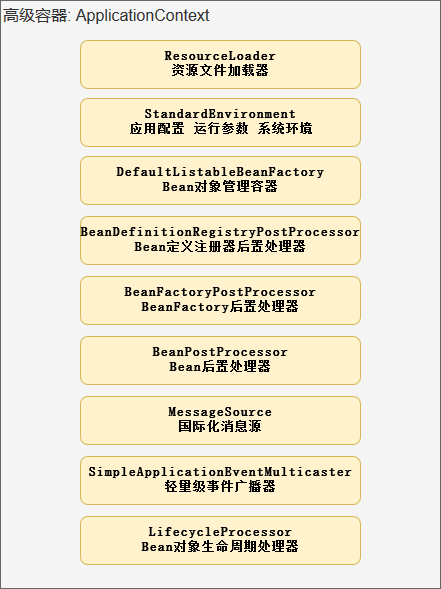
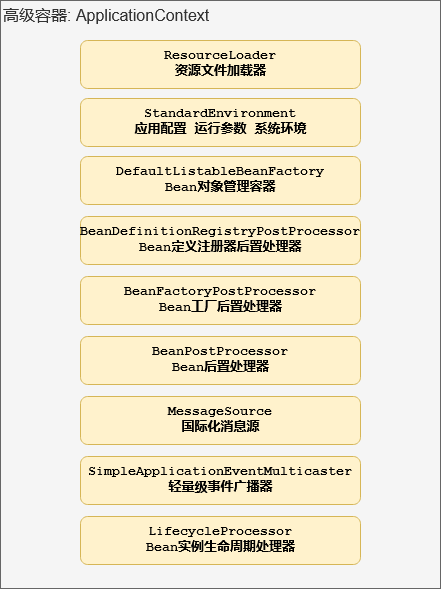
注解配置工具类注册Bean定义声明说明优化

diff --git a/spring-ioc/spring-ioc.md b/spring-ioc/spring-ioc.md
@@ -11,7 +11,7 @@
 
 ## 容器
 
-##### 一、 容器概览
+#### 一、 容器概览
 
 以一张图来看看, **Spring IOC**容器包含哪些东西  
 ![Spring 容器](images/spring-ioc.png)
@@ -26,26 +26,26 @@
 
 * `DefaultListableBeanFacotry` 管理`Bean`实例获取、创建、初始化、依赖注入和缓存单例`Bean`, 是真正意义上的`Bean`实例容器.
 
-* `BeanDefinitionRegistryPostProcessor` **`Bean`定义声明后置处理器**, 是容器对外输出如何发现、读取、解析、创建**`Bean`定义声明**、注册**`Bean`定义声明**
+* `BeanDefinitionRegistryPostProcessor` **`Bean`定义注册器后置处理器**, 是容器对外输出如何发现、读取、解析、创建**`Bean`定义**并注册**`Bean`定义声明**
 
-* `BeanFactoryPostProcessor` **`Bean`工厂后置处理器**, 是容器对外输出能够对**`Bean`工厂**执行增强、配置, 如编码方式向容器添加`Bean`实例, 替换**`Bean`定义声明**元数据中的字符串占位符为具体值  
+* `BeanFactoryPostProcessor` **`Bean`工厂后置处理器**, 是容器对外输出能够对**`Bean`工厂**执行增强、配置, 如编码方式向容器添加`Bean`实例, 替换**`Bean`定义声明**元数据中的字符串占位符为具体值
 
-* `BeanPostProcessor` **`Bean`实例后置处理器**, 是容器对外输出预测类型、确定构造函数、对实例前/后置处理、属性值设置、初始化前/后置处理等控制创建`Bean`实例一系列过程, 这是容器对外提供参与Bean实例创建最详细的生命周期
+* `BeanPostProcessor` **`Bean`后置处理器**, 是容器对外输出预测类型、确定构造函数、对实例前/后置处理、属性值设置、初始化前/后置处理等控制创建`Bean`实例一系列过程, 这是容器对外输出参与`Bean`实例创建最详细的生命周期能力
 
 * `MessageSource` 国际化消息组件, 容器默认的组件实例是`DelegatingMessageSource`
 
 * `ApplicationEventMulticaster` 轻量级事件广播器, 是容器提供的事件监听机制, 在容器初始化完成后会广播一个`ContextRefreshedEvent`事件, 我们可以监听这个事件. 适合一些其他需要容器初始化完成后才开始执行的动作, 如**Spring**自带的定时任务, 就是监听到这个事件后触发定时任务初始化工作
 
-* `LifecycleProcessor` 容器生命周期处理器, 是容器初始化完成后, 可以自动启动实现了`Lifecycle`接口的扩展组件, 如`rabbitmq`客户端组件就是应用了这个机制. 当容器初始化完成后, 容器引导`rabbitmq`启动, `rabbitmq`客户端组件内部开始执行`rabbitmq`客户端连接到`rabbitmq`服务器, 创建监听器监听队列消息等一系列初始化工作. 
+* `LifecycleProcessor` `Bean`实例生命周期处理器, 是容器初始化完成, 所有`Bean`实例一切就绪后, 容器对外输出实现`Lifecycle`接口的扩展组件`Bean`执行自动启动, 如`rabbitmq`客户端组件就是应用了这个机制. 当容器初始化完成后, 容器引导`rabbitmq`启动, `rabbitmq`客户端组件内部开始执行`rabbitmq`客户端连接到`rabbitmq`服务器, 创建监听器监听队列消息等一系列初始化工作. 
 
 
 #### 二、 如何创建一个新容器
 
-**Spring**容器是设计为父子层级容器, 子容器可以继承公共父容器的**Bean**实例, 这对于某些场景需要多个不同隔离的子容器提供了支持. 比如在**Spring MVC**中, 展现层`Bean`位于一个子容器中, 而业务层和持久层的`Bean`位于父容器中. 这样, 展现层`Bean`就可以引用业务层和持久层的Bean, 而业务层和持久层的`Bean`则看不到展现层的`Bean`.
-创建**Spring**容器可以以XML文件声明式和注解编码两种方式, 或者混用两种方式.
-* XML声明式: `ClassPathXmlApplicationContext` `FileSystemXmlApplicationContext`
+**Spring**容器被设计为父子层级容器, 子容器可以继承公共父容器的**Bean**实例, 这对于某些场景需要多个不同隔离的子容器提供了支持. 比如在**Spring MVC**中, 展现层`Bean`位于一个子容器中, 而业务层和持久层的`Bean`位于父容器中. 这样, 展现层`Bean`就可以引用业务层和持久层的`Bean`, 而业务层和持久层的`Bean`则看不到展现层的`Bean`.
+创建**Spring**容器可以以XML文件声明式和注解编码两种方式, 或者混用两种方式. 针对不同方式, **Spring**提供不同的支持类:
+* XML声明方式: `ClassPathXmlApplicationContext` `FileSystemXmlApplicationContext`
 * 注解编码方式: `AnnotationConfigApplicationContext`
-这里提到的两种方式都是框架提供的最基本的两个创建容器的方式, 针对**Spring MVC**、**Spring Boot**都会有自己的实现类. 本文统一使用`AnnotationConfigApplicationContext`这种注解方式进行讲解.
+这里提到的两种方式的支持类是框架内部基本的两个创建容器的类, 针对**Spring MVC**、**Spring Boot**都会有自己的实现类. 本文统一使用`AnnotationConfigApplicationContext`这种注解方式进行讲解.
 
 首先介绍一下本文用到的maven项目结构, 如下
 >```
@@ -75,15 +75,13 @@
 1. 注解类为参数的构造器  
 * 注解类
 ```java
-
-//配置类主入口
+//该注解很重要
 @Configuration
 public class ContextConfig {
-  
+  //配置类主入口
 }
 ```
-`ContextConfig`注解类很简单, 里面什么也没有, 类应该是被`@Configuration`、`@Component`、`@Inject`注解所标记, 如果需要通过方法声明`Bean`定义, 
-应该在注解`@Configuration`的类里面写一个方法, 此方法必须存在返回值, 且返回类型是`Bean`的类型, 然后在方法上面添加注解`@Bean`.
+`ContextConfig`注解类很简单, 里面什么也没有, 类应该是被`@Configuration`、`@Component`、`@Inject`注解所标记. 如果需要在注解类声明`Bean`定义, 应该在`@Configuration`注解的类里面写一个方法, 此方法必须存在返回值, 且返回类型是`Bean`的类型, 并在方法上添加`@Bean`注解.
 
 * 注解类为参的构造器
 ```java
@@ -104,7 +102,7 @@ public class SpringContainer {
   }
 }
 ```
-包名为参创建容器, 在容器初始化过程中, 会扫描包名及子包名下所有注解`@Configuration`的类并注册为`Bean`定义, 且解读类中注解`@Bean`的方法并注册为`Bean`定义
+以包名为参创建容器, 在容器初始化过程中, 会扫描包名及子包名下所有`@Configuration`注解的类并注册为`Bean`定义, 且会解析注解类中`@Bean`注解的方法并注册为`Bean`定义
 
 3. 无参的构造器  
 ```java
@@ -118,32 +116,30 @@ public class SpringContainer {
   }
 }
 ```
-无参构造器方式创建一个完整的容器, 需要的代码也不多, 调用`register`方法注册一个注解类或者调用`scan`方法指定要扫描的包名, 然后调用`refresh`方法刷新容器, 
-刷新方法是必须的, 容器初始化大量相关的工作需要调用该方法.
+以无参构造器方式创建一个完整的容器, 需要的代码也不多, 调用`register`方法注册一个注解类或者调用`scan`方法指定要扫描的包名, 然后调用`refresh`方法刷新容器, 调用刷新方法是**必须的**, 容器初始化大量相关的工作需要调用该方法.
 
 
 #### 三、 容器启动流程
 
-通过前面的示例, 创建一个容器很简单, 仅两三行代码就完成了. 我们输入一个配置类或者包名, 最后容器输出事先定义的`Bean`实例(仅限单例会预先创建, 多例要在运行时动态创建), 容器里面到底发生了什么, 我们不知晓,
-一般来说也不需要关心, 容器自身保证输出的`Bean`实例及依赖关系的正确性. 让我们窥视下这个黑盒子做了哪些工作:  
+通过前面的示例, 创建一个容器很简单, 仅两三行代码就完成了. 我们输入一个配置类或者包名, 最后容器输出一系列事先定义的`Bean`实例(仅限单例会预先创建, 多例要在运行时动态创建), 容器里面到底发生了什么, 我们不知晓, 一般来说也不需要关心, 容器自身保证输出的`Bean`实例及依赖关系的正确性. 让我们窥视下这个黑盒子做了哪些工作:  
 ![Spring 容器启动流程](images/spring-ioc-sequence.png)
 
-1. 容器引擎实例由调用`AnnotationConfigApplicationContext`的构造函数创建
+1. 容器实例引擎由调用`AnnotationConfigApplicationContext`的构造函数创建
 2. 容器内部创建`DefaultListableBeanFactory` 默认的`Bean`工厂实例, `Bean`工厂实例管理着`Bean`实例对象的获取、类型加载、最优构造器/工厂方法选择、创建实例、属性依赖绑定、后置处理器调用(如返回AOP生成的代理对象, 动态修改属性依赖绑定)、初始化、初始化回调(如通知`aware`接口实现)并注册缓存单例`Bean`
-3. `Bean`定义读析器实例由容器调用`AnnotatedBeanDefinitionReader`的构造函数创建, 并接受`BeanDefinitionRegistry`类型的实例作为参数, 容器自身实现了该接口, 所以这里传入的是容器实例
-4. `Bean`定义读析器尝试从容器获取`Environment`环境变量实例, 如果容器不能获取环境变量, 则创建新的`StandardEnvironment`环境变量实例
-5. `Bean`定义读析器内部创建`ConditionEvaluator`状态求值器实例, 该实例用于计算读析器读取的`Bean`定义是否可被注册为`Bean`定义声明, 这项技术在**Spring Boot**中大量使用, 我们按需添加**jar**包依赖, **Spring Boot**自动发现并配置容器功能的原型就是引用这项技术, **Spring Boot**扩展并增强了这项技术的应用
-6. 设置`Bean`工厂的注解排序器为`AnnotationAwareOrderComparator`实例, 在同类`Bean`中, 排序器根据注解`@Order`或者实现`Ordered`接口唯一方法返回的整型值, 决定其排序, 整型值越小排序越靠前, 优先级越高. 如容器对多个`BeanPostProcessor`实现类执行后置处理时, 根据其排序进行顺序后置处理
-7. 设置`Bean`工厂的自动绑定备选项选择器为`ContextAnnotationAutowireCandidateResolver`实例, 对于一个`Bean`有资格被绑定到依赖属性, 我们称这样的`Bean`为"种子`Bean`", 而最终能够被选中并绑定到属性依赖的`Bean`称之为"资格`Bean`", 在实际场景中, 我们可能会对某些`Bean`进行代理增强, 工厂在查找属性依赖注入的时候希望注入的是经过增强后的代理实例而不是原始`Bean`实例. 容器的做法就是通过一个标志位来区分是否可作为属性依赖注入的"种子`Bean`"
+3. `Bean`定义读析器实例由容器调用`AnnotatedBeanDefinitionReader`的构造函数创建, 并接受`BeanDefinitionRegistry`类型的`Bean`定义注册器实例作为参数, 容器自身实现了该接口, 所以这里传入的是容器实例
+4. `Bean`定义读析器尝试从容器获取`Environment`环境变量实例, 如果容器不能获取到环境变量实例, 则会创建新的`StandardEnvironment`环境变量实例
+5. `Bean`定义读析器内部创建`ConditionEvaluator`状态求值器实例, 该实例用于计算读析器判断一个`Bean`定义声明是否可被注册, 这项技术在**Spring Boot**中大量使用, 我们按需添加**jar**包依赖, **Spring Boot**自动发现并配置容器功能的原型就是引用这项技术, **Spring Boot**扩展并增强了这项技术的应用
+6. 设置`Bean`工厂的注解排序器为`AnnotationAwareOrderComparator`实例, 在同类`Bean`中, 排序器根据注解`@Order`属性值或者实现`Ordered`接口唯一方法返回值, 决定其排序位置, 整型值越小排序越靠前, 优先级越高. 如容器对多个`BeanPostProcessor`实现类执行后置处理时, 根据其排序进行顺序后置处理
+7. 设置`Bean`工厂的自动绑定备选项选择器为`ContextAnnotationAutowireCandidateResolver`实例, 对于一个有资格被绑定到依赖属性的`Bean`, 称这样的`Bean`为"种子`Bean`", 而最终能够被选中并绑定到属性依赖的`Bean`称之为"资格`Bean`", 在实际场景中, 我们可能会对某些`Bean`进行代理增强, `Bean`工厂在查找属性依赖注入的时候希望注入的是经过增强后的代理实例而不是原始`Bean`实例. 容器的做法就是通过一个标志位来区分是否可作为属性依赖注入的"种子`Bean`"
 8. 注册配置类后置处理器`ConfigurationClassPostProcessor`的`Bean`定义, 因为是`Bean`定义声明, 只有在容器刷新时, 才会创建配置类后置处理器实例对象. 由于该`Bean`定义声明实现了`BeanDefinitionRegistryPostProcessor`和`PriorityOrdered`接口, 因此在所有`Bean`定义声明中最优先被创建实例对象, 在容器启动中, 该`Bean`实例对象解析`@Configuration`注解的`class`文件(称为: 配置类). 配置类是编码方式声明其他`Bean`定义的入口
-9. 包`Bean`定义扫描器实例由容器调用`ClassPathBeanDefinitionScanner`的构造函数创建, 包`Bean`定义扫描器根据指定的包扫描该包下被`@Component`或元注解是`@Component`所注解的`class`, 并解析注册为`Bean`定义声明, 元注解是`@Component`的注解有: `@Service` `@Repository` `@Controller` `@Configuration`. 同时支持**java**平台自身的`javax.annotation.ManagedBean` `javax.inject.Named`. 以及可以向包`Bean`定义扫描器实例注册我们的"自定义注解"
-10. 最后一步是刷新容器, 刷新容器方法在容器引擎的父类`AbstractApplicationContext`中, 对子类抽象了刷新容器绝大多数细节, 容器引擎初始化正式的由这里开始并一直到准备完毕
+9. 包路径`Bean`定义扫描器实例由容器调用`ClassPathBeanDefinitionScanner`的构造函数创建, 包路径`Bean`定义扫描器根据指定的包名扫描该包下被`@Component`或元注解是`@Component`所注解的`class`, 并解析注册为`Bean`定义声明, 元注解是`@Component`的注解有: `@Service` `@Repository` `@Controller` `@Configuration`. 同时支持**java**平台自身的`javax.annotation.ManagedBean` `javax.inject.Named`. 以及可以向包路径`Bean`定义扫描器注册我们的"自定义注解"
+10. 最后一步是刷新容器实例引擎, 刷新容器的方法在容器的父类`AbstractApplicationContext`中, 该方法抽象了刷新容器绝大多数细节, 容器初始化大量工作正式由这里开始并一直到准备就绪完毕
 
-总结一下, 前面介绍了在容器启动流程中涉及到几个比较重要的类, 每个类承担着不同却异常重要的角色, 每个类都是独立的但又相互联系, 若即若离组成了一个设计良好、完整的容器所必须的功能. 这些类实例都是为容器开始初始化做足前期准备, 容器正式启动并完成初始化是调用`refresh`方法.
+总结一下, 前面介绍了在容器实例引擎启动流程中涉及到几个比较重要的类, 每个类承担着不同却异常重要的角色, 每个类都是独立的但又相互联系, 若即若离组成了一个设计良好、完整的容器所必须的功能. 这些类实例都是为容器开始初始化做足前期准备, 容器正式启动并完成初始化是调用`refresh`方法.
 
 ## 深入源码与原理
 
-从本小节开始, 将会以`AnnotationConfigApplicationContext`为起点深入'每行'代码的讲解, 应该说不是真正的做到每一行代码, 而是把绝大多数、有意义、影响到全文理解的都会进行讲解分析. 后面会看到大量的`copy`源码. 在这里, 而没有建议读者直接回到专业的编辑工具去查阅源码. 目的就是为了减少来回切换, 影响阅读连贯性, 增强可读性, 更好的理解和更容易的掌握. 在源码讲解过程中, 对有些代码类会增加一些场景使用代码来进一步说明. 理解是缘由, 场景实战才是目的. 
+从本小节开始, 将会以`AnnotationConfigApplicationContext`为起点深入每行代码的讲解, 应该说不是真正的做到每一行代码, 而是把绝大多数、有意义、影响到全文理解的都会进行讲解分析. 后面会看到大量的`copy`源码. 在这里, 而没有建议读者直接回到专业的编辑工具去查阅源码. 目的就是为了减少来回切换, 影响阅读连贯性, 增强可读性, 更好的理解和更容易的掌握. 在源码讲解过程中, 对有些代码类会增加一些场景使用代码来进一步说明. 理解是缘由, 场景实战才是目的. 
 
 `AnnotationConfigApplicationContext` 无参构造器源码
 ```java
@@ -174,13 +170,13 @@ public class AnnotatedBeanDefinitionReader {
   //省略其他源码....
 }
 ```
-最终是调用两个参数的构造器, 第一个参数是管理`Bean`定义的注册器对象, 第二个是环境对象, 内部创建一个状态求值器对象, 调用工具类向容器注册一些默认的处理器
+最终是调用两个参数的构造器, 第一个参数是`Bean`定义注册器, 第二个是环境实例, 内部创建一个状态求值器实例, 最后调用工具类注册一些默认的处理器`Bean`定义
 
 `AnnotationConfigUtils.registerAnnotationConfigProcessors`方法源码:
 ```java
 public class AnnotationConfigUtils {
   public static Set<BeanDefinitionHolder> registerAnnotationConfigProcessors(BeanDefinitionRegistry registry, Object source) {
-    // 1. 尝试解包Bean工厂对象, 设置依赖排序器和自动绑定备选项选择器
+    // 1. 尝试解包Bean工厂实例, 设置依赖排序器和自动绑定备选项选择器
     DefaultListableBeanFactory beanFactory = unwrapDefaultListableBeanFactory(registry);
     if (beanFactory != null) {
       if (!(beanFactory.getDependencyComparator() instanceof AnnotationAwareOrderComparator)) {
@@ -258,10 +254,10 @@ public class AnnotationConfigUtils {
 }
 ```
 
-该工具方法完成一些重要的处理器注册, 对于在这里注册`Bean`实例和注册`Bean`定义可以从三个阶段理解:
-1. 第一阶段, 先解包获取默认的`Bean`工厂对象, 然后设置依赖排序器和依赖选择器, 这都是直接实例对象, 目的配置好工厂环境
-2. 第二阶段, 注册一个配置类后处理器, 该处理器用于循环查找工厂已注册的`Bean`定义所对应的类是否含有新的`Bean`定义, 如有则注册为新的`Bean`定义声明. 这个阶段完成查找所有`Bean`定义并注册登记
-3. 第三阶段, 创建`Bean`定义声明对应的实例对象及初始化, 除了配置类处理器, 后面注册的其他注解处理器, 在创建实例和初始化对象过程被触发调用, 解决依赖属性、校验依赖是否满足、包装方法(事件监听器)
+该工具方法完成一些重要的处理器`Bean`定义注册, 对于在这里注册的`Bean`实例和`Bean`定义可以从三种类型理解:
+1. 第一是准备工厂环境, 先解包获取默认的`Bean`工厂实例, 然后设置依赖排序器和依赖选择器, 这都是直接实例对象, 目的配置好工厂环境
+2. 第二是参与容器生命周期的处理器`Bean`定义, 该类型的`Bean`定义实例是由容器先于`Bean`定义实例创建, 而配置类后处理器属于该类型. 该处理器主要用于加载已注册`Bean`定义的目标类, 解析`Bean`定义目标类是否存在新的`Bean`定义, 如有则注册为新的`Bean`定义声明. 这个阶段完成根据已有的`Bean`定义发现并注册新的`Bean`定义
+3. 第三是参与`Bean`实例创建生命周期的处理器`Bean`定义, 该类型的处理器`Bean`定义实例先于其他`Bean`定义实例创建, 但晚于容器生命周期处理器类型实例. 在创建`Bean`实例和初始化过程被触发调用, 解决依赖属性、校验依赖是否满足、包装方法(事件监听器)
 
 
 ## `AnnotationAwareOrderComparator` 源码分析
@@ -2040,12 +2036,12 @@ class ConfigurationClassEnhancer {
 
 #### 八、 `ConfigurationClassPostProcessor` 配置类后置处理器
 
-调用容器`registry`或者`scan`包名扫描方法创建并注册到容器的`Bean`定义是最原始的`Bean`定义. 可能这些`Bean`定义中有些是配置类型的`Bean`定义, 我们需要从配置类型的`Bean`定义中发现、解析、创建并注册新的`Bean`定义. 配置类后置处理器就是专门用来处理配置模型声明的`Bean`定义, 并从中解析找到新的`Bean`定义及注册到容器. 这是一个自动化的过程, 也是容器实例化过程中的第一步要做的主要工作: 发现并创建`Bean`定义. 容器的`Bean`实例都是根据事先声明好的`Bean`定义来创建的, 所以创建注册`Bean`定义工作很重要. 配置类后置处理器处在容器生命周期的初始阶段, 在容器初始化时仅有的一次执行机会. 所以在这个阶段用它来处理`Bean`定义发现、解析、创建工作最好不过了.
+调用容器`registry`或者`scan`包名扫描方法创建并注册到容器的`Bean`定义是最原始的`Bean`定义. 可能这些`Bean`定义中有些是配置类型的`Bean`定义, 我们需要从配置类型的`Bean`定义中发现、解析、创建并注册新的`Bean`定义. 配置类后置处理器就是专门用来处理配置模型声明的`Bean`定义, 并从中解析找到新的`Bean`定义及注册到`Bean`定义注册器. 这是一个自动化的过程, 也是容器实例化过程中的第一步要做的主要工作: 发现并创建`Bean`定义. 容器的`Bean`实例都是根据事先声明好的`Bean`定义来创建的, 所以创建注册`Bean`定义工作很重要. 配置类后置处理器处在容器生命周期的初始阶段, 在容器初始化时仅有的一次执行机会. 所以在这个阶段用它来处理`Bean`定义发现、解析、创建工作最好不过了.
 
 配置类后置处理器继承关系:
 ![Spring 配置类后置处理器继承关系](images/spring-config-post-processor-class.png)
 
-实现`BeanDefinitionRegistryPostProcessor`接口, 该接口继承了`BeanFactoryPostProcessor`接口, 所以说配置类后置处理器是在容器声明周期的开始阶段. 实现了`PriorityOrdered`优先级接口, 所以会被容器优先调用. 实现了几个容器回调感知接口.
+实现`BeanDefinitionRegistryPostProcessor`接口, 该接口继承了`BeanFactoryPostProcessor`接口, 所以说配置类后置处理器是在容器声明周期的开始阶段. 实现了`PriorityOrdered`优先级接口, 所以会被容器优先调用. 及实现了几个容器回调感知接口.
 
 配置类后置处理器核心实现细节流程图：
 ![Spring 配置类后置处理器实现流程图](images/spring-config-post-processor-flow.png)
